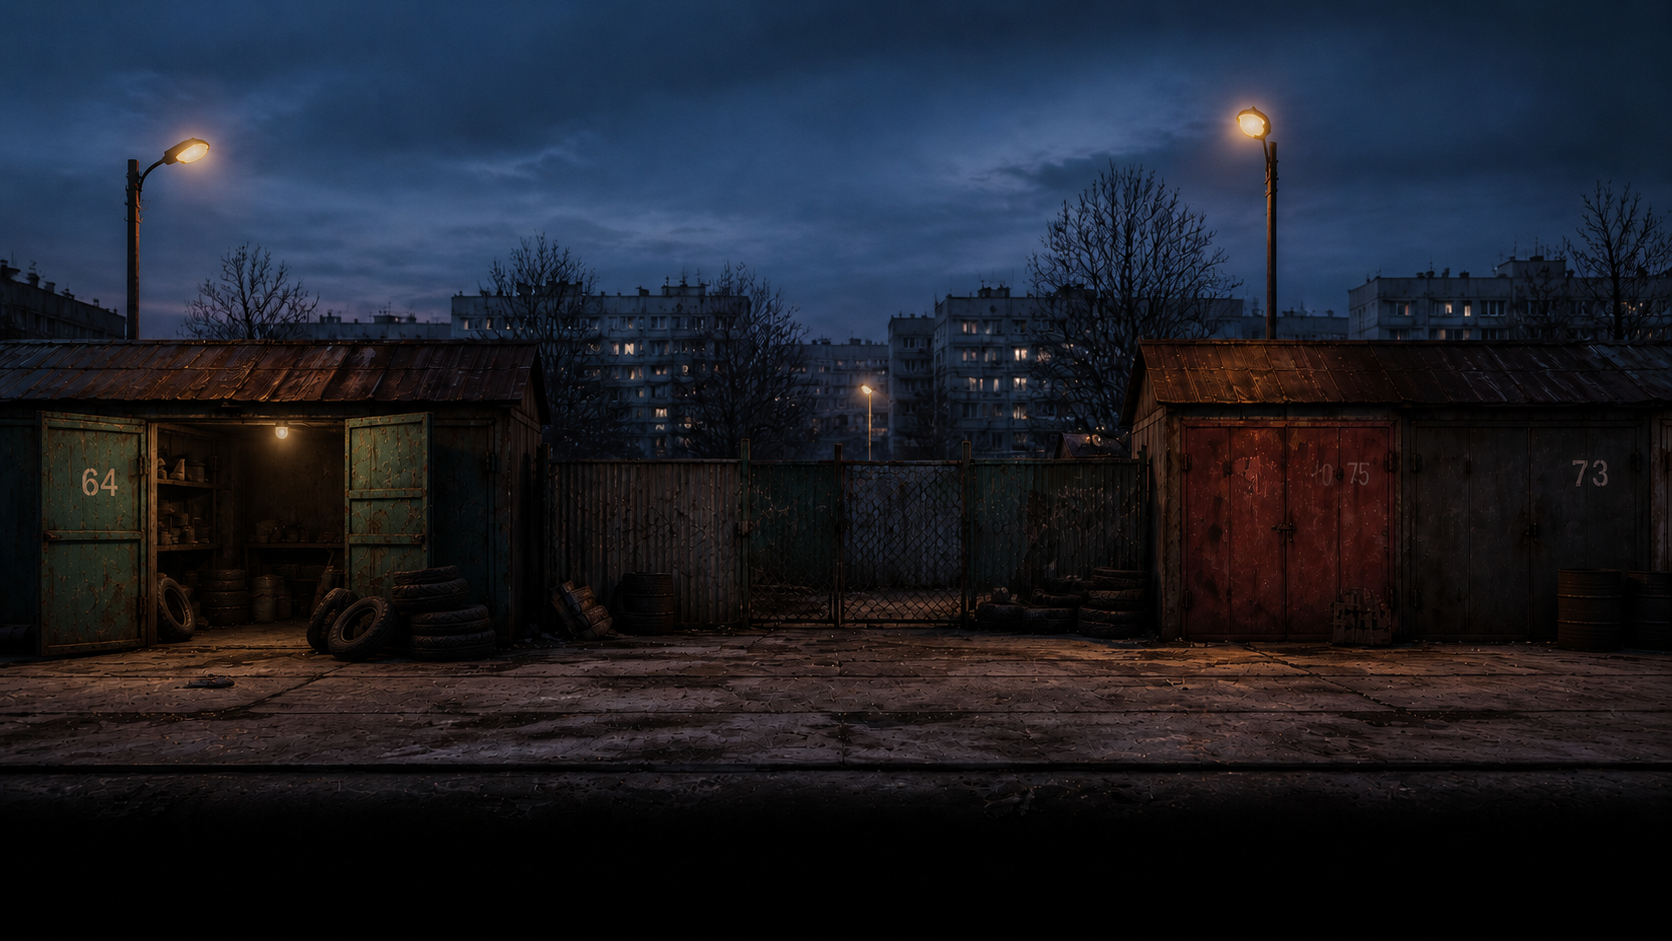
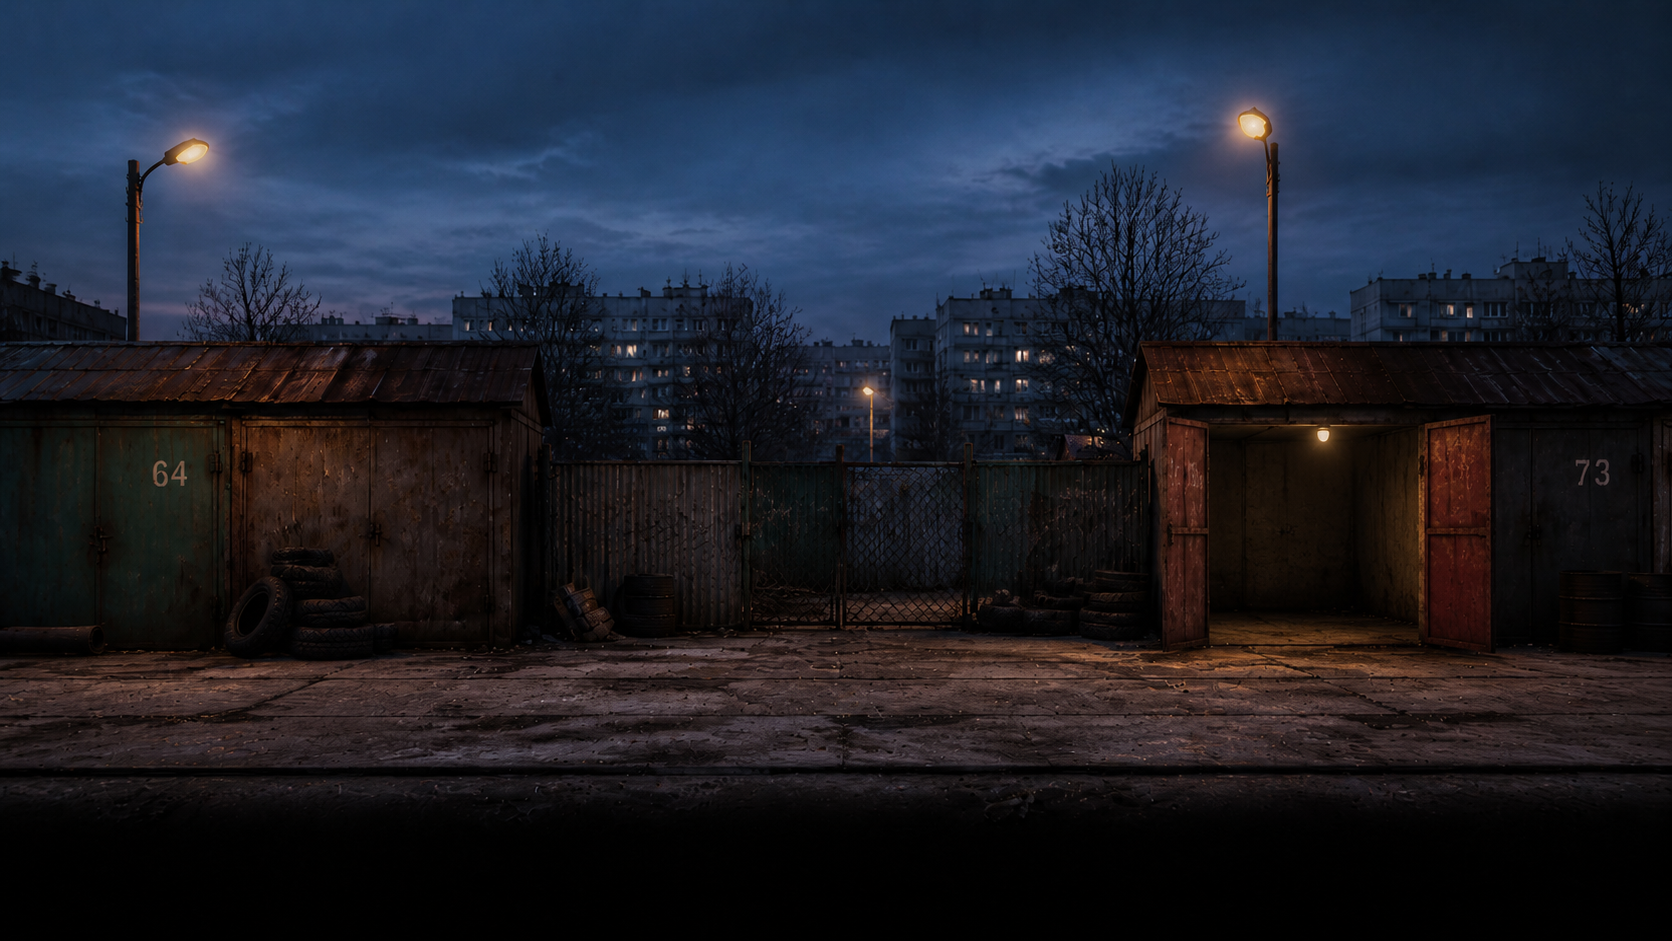
Update Siberia garage backgrounds

diff --git a/src/game.bundle.js b/src/game.bundle.js
@@ -6,7 +6,7 @@
 
 /* ===== src/config.js ===== */
 const GAME_CONFIG = {
-  "buildVersion": "0.4.211",
+  "buildVersion": "0.4.212",
   "width": 1280,
   "height": 720,
   "targetFPS": 60,
@@ -830,10 +830,10 @@ const GAME_CONFIG = {
           "laneY": 620,
           "laneTolerance": 65,
           "hitbox": {
-            "x": 0,
+            "x": 1138,
             "y": 405,
-            "w": 515,
-            "h": 222
+            "w": 328,
+            "h": 230
           }
         }
       ],
@@ -8382,7 +8382,11 @@ const DevPanel = {
       'levels.street01.interactives.0.hitbox.x': 342,
       'levels.street01.interactives.0.hitbox.y': 272,
       'levels.street01.interactives.0.hitbox.w': 128,
-      'levels.street01.interactives.0.hitbox.h': 146
+      'levels.street01.interactives.0.hitbox.h': 146,
+      'levels.siberia02.interactives.0.hitbox.x': DEFAULT_GAME_CONFIG.levels.siberia02.interactives[0].hitbox.x,
+      'levels.siberia02.interactives.0.hitbox.y': DEFAULT_GAME_CONFIG.levels.siberia02.interactives[0].hitbox.y,
+      'levels.siberia02.interactives.0.hitbox.w': DEFAULT_GAME_CONFIG.levels.siberia02.interactives[0].hitbox.w,
+      'levels.siberia02.interactives.0.hitbox.h': DEFAULT_GAME_CONFIG.levels.siberia02.interactives[0].hitbox.h
     };
 
     for (const path of Object.keys(defaults)) {

diff --git a/src/devPanel.js b/src/devPanel.js
@@ -776,7 +776,11 @@ const DevPanel = {
       'levels.street01.interactives.0.hitbox.x': 342,
       'levels.street01.interactives.0.hitbox.y': 272,
       'levels.street01.interactives.0.hitbox.w': 128,
-      'levels.street01.interactives.0.hitbox.h': 146
+      'levels.street01.interactives.0.hitbox.h': 146,
+      'levels.siberia02.interactives.0.hitbox.x': DEFAULT_GAME_CONFIG.levels.siberia02.interactives[0].hitbox.x,
+      'levels.siberia02.interactives.0.hitbox.y': DEFAULT_GAME_CONFIG.levels.siberia02.interactives[0].hitbox.y,
+      'levels.siberia02.interactives.0.hitbox.w': DEFAULT_GAME_CONFIG.levels.siberia02.interactives[0].hitbox.w,
+      'levels.siberia02.interactives.0.hitbox.h': DEFAULT_GAME_CONFIG.levels.siberia02.interactives[0].hitbox.h
     };
 
     for (const path of Object.keys(defaults)) {

diff --git a/src/config.js b/src/config.js
@@ -1,5 +1,5 @@
 const GAME_CONFIG = {
-  "buildVersion": "0.4.211",
+  "buildVersion": "0.4.212",
   "width": 1280,
   "height": 720,
   "targetFPS": 60,
@@ -823,10 +823,10 @@ const GAME_CONFIG = {
           "laneY": 620,
           "laneTolerance": 65,
           "hitbox": {
-            "x": 0,
+            "x": 1138,
             "y": 405,
-            "w": 515,
-            "h": 222
+            "w": 328,
+            "h": 230
           }
         }
       ],
